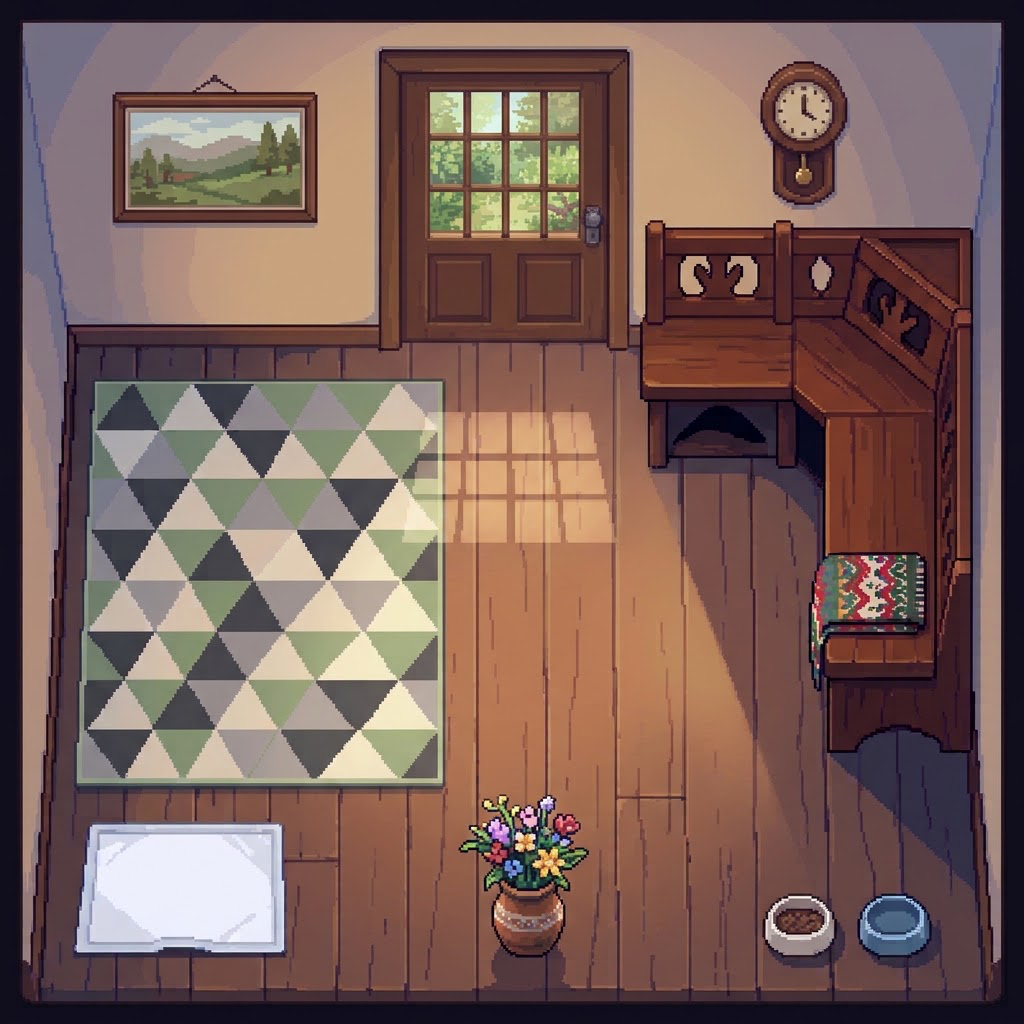
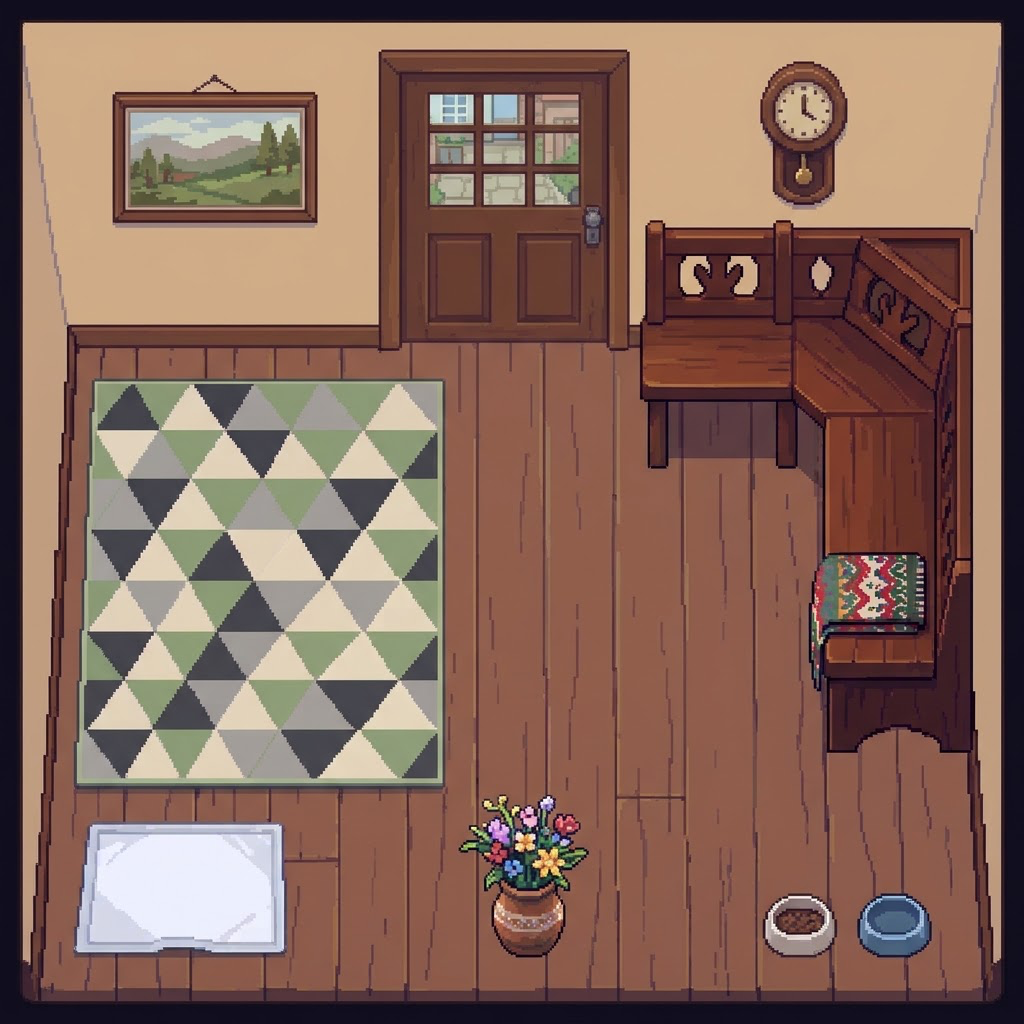
Backgrounds: spring yard, room without sunbeam; door view, props, shadows
tools/bg_prepare.py (preview stage, nothing in the pak):
- the 400 x 400 grid recovered from the 1024 px images
- the door's 9 glass panes transparent, the season's yard seen through them
- pad, vase and bowls cut out as props; the floor under them refilled per
  board (row copying repeated the board ends as a grid, so median colour)
- previews with runtime-style shadows (Lili and props), the afternoon
  sunbeam through the door panes, and the night tone

diff --git a/tools/bg_prepare.py b/tools/bg_prepare.py
@@ -1,0 +1,232 @@
+#!/usr/bin/env python3
+"""Pixel Lili: the owner's generated backgrounds -> game-ready layers (2026-10-23, preview stage).
+
+    py -3.12 tools/bg_prepare.py
+
+assets/backgrounds/src/*.png (1024 px; the real pixel grid is 400 x 400, measured: a 2.56 px period) ->
+  assets/backgrounds/room.png             the room on its 400 grid, the door's 9 glass panes transparent
+  assets/backgrounds/door_view_<s>.png    what the panes show: the same season's yard, small and soft, as glass
+  assets/backgrounds/props/<id>.png       the pad, the vase and the two bowls cut out (their states change, and
+                                          they sort with Lili); the floor under them is filled with its own planks
+  assets/backgrounds/yard_<s>.png         the yards on their 400 grid
+  docs/img/bg/room_<s>_480.png            preview: 480 x 480 with the display corners and Lili
+Nothing here goes into the pak; tools/pack_assets.py is untouched until the owner approves.
+"""
+import os
+import numpy as np
+from PIL import Image, ImageDraw, ImageFilter
+
+ROOT = os.path.dirname(os.path.dirname(os.path.abspath(__file__)))
+SRC = os.path.join(ROOT, "assets", "backgrounds", "src")
+OUT = os.path.join(ROOT, "assets", "backgrounds")
+DOC = os.path.join(ROOT, "docs", "img", "bg")
+SEASONS = ("spring", "summer", "autumn", "winter")
+GRID, SHOW, CORNER = 400, 480, 72
+
+# the door's glass panes on the 400 grid (inclusive), found from the dark muntin rows and columns
+PANE_X = ((168, 184), (189, 204), (209, 225))
+PANE_Y = ((37, 48), (52, 63), (68, 79))
+WINDOW = (168, 37, 226, 80)                    # x0, y0, x1, y1 (exclusive): the whole glazed area
+# changeable things on the room floor: (x0, y0, x1, y1) exclusive, on the 400 grid
+PROPS = {"pad": (28, 319, 114, 375), "vase": (176, 307, 233, 376),
+         "bowl_food": (295, 346, 330, 377), "bowl_water": (332, 345, 367, 378)}
+FLOOR_Y = (140, 386)                           # the floor's rows (below the wall, above the front edge)
+# the vase's terracotta is the floor's colour (measured: 20-67 apart), so its body is traced by hand along
+# its dark outline (400 grid); the flowers above it are found by colour like the other props
+HAND_MASKS = {"vase": [(195, 346), (217, 346), (219, 350), (221, 355), (221, 365), (218, 369), (214, 373),
+                       (200, 373), (196, 369), (192, 365), (191, 355), (193, 350)]}
+VIEW = (40, 0, 360, 236)                       # the part of a yard seen through the door: fence, trees, grass
+
+def load_grid(name):
+    """the centre of every 2.56 px source cell = the original pixel"""
+    return Image.open(os.path.join(SRC, name + ".png")).convert("RGB").resize((GRID, GRID), Image.NEAREST)
+
+def is_wood(px):
+    r, g, b = px[..., 0].astype(int), px[..., 1].astype(int), px[..., 2].astype(int)
+    return (r > g) & (g >= b - 4) & (r - b > 20) & (r < 190)
+
+def wood_runs(col, y_from, y_to):
+    """clean wood runs (start, end exclusive) in one column between two rows"""
+    w = is_wood(col[y_from:y_to])
+    runs, start = [], None
+    for i, ok in enumerate(w):
+        if ok and start is None: start = i
+        if not ok and start is not None: runs.append((y_from + start, y_from + i)); start = None
+    if start is not None: runs.append((y_from + start, y_to))
+    return runs
+
+def fill_floor(img, box):
+    """the floor under an object: the boards run vertically, so every column gets the median colour of its
+    own clean wood just above and just below the box, blended top to bottom (the floor darkens towards the
+    front). Copying texture rows was tried first: the board ends repeated as a grid of horizontal lines."""
+    a = np.asarray(img).astype(float).copy()
+    x0, y0, x1, y1 = box
+    for x in range(x0, x1):
+        col = a[:, x]
+        above = [col[y] for y in range(max(FLOOR_Y[0], y0 - 30), y0) if is_wood(col[y:y + 1].astype(np.uint8))[0]]
+        below = [col[y] for y in range(y1, min(FLOOR_Y[1], y1 + 12)) if is_wood(col[y:y + 1].astype(np.uint8))[0]]
+        if not above and not below:
+            continue
+        ca = np.median(above, 0) if above else np.median(below, 0)
+        cb = np.median(below, 0) if below else ca
+        for y in range(y0, y1):
+            t = (y - y0) / max(1, y1 - y0 - 1)
+            a[y, x] = ca * (1 - t) + cb * t
+    return Image.fromarray(a.round().clip(0, 255).astype(np.uint8))
+
+def largest_blob(m):
+    """the biggest 4-connected True region (the object; thin plank seams that the fill smoothed away are
+    separate specks), with its inner holes filled (parts of the object coloured like the floor)"""
+    h, w = m.shape
+    seen = np.zeros_like(m); best = []
+    for sy in range(h):
+        for sx in range(w):
+            if not m[sy, sx] or seen[sy, sx]: continue
+            stack, blob = [(sy, sx)], []
+            seen[sy, sx] = True
+            while stack:
+                y, x = stack.pop(); blob.append((y, x))
+                for ny, nx in ((y + 1, x), (y - 1, x), (y, x + 1), (y, x - 1)):
+                    if 0 <= ny < h and 0 <= nx < w and m[ny, nx] and not seen[ny, nx]:
+                        seen[ny, nx] = True; stack.append((ny, nx))
+            if len(blob) > len(best): best = blob
+    out = np.zeros_like(m)
+    for y, x in best: out[y, x] = True
+    # .copy(): an image made by fromarray shares the array's memory and the flood fill left it unchanged
+    outside = Image.fromarray(np.pad(~out, 1, constant_values=True).astype(np.uint8) * 255).copy()
+    ImageDraw.floodfill(outside, (0, 0), 128)
+    holes = np.asarray(outside)[1:-1, 1:-1] == 255
+    return out | holes
+
+def cut_props(orig, filled):
+    """an object pixel = one that is not wood-coloured, or one far from its board's own colour (the vase's
+    terracotta is wood-like but much brighter); the far-from-floor part is opened first so the grain's
+    highlights fall away; then the largest region, a 3x3 closing for the notches, and the holes filled.
+    A plain difference against the filled floor was tried first: the median fill smooths the grain, so half
+    the floor counted as 'changed'. The baked contact shadow stays on the floor; shadows come at runtime."""
+    o = np.asarray(orig); f = np.asarray(filled).astype(int)
+    def op(m, a, b):
+        return np.asarray(Image.fromarray(m.astype(np.uint8) * 255).filter(a(3)).filter(b(3))) > 0
+    out = {}
+    for pid, (x0, y0, x1, y1) in PROPS.items():
+        far = np.abs(o[y0:y1, x0:x1].astype(int) - f[y0:y1, x0:x1]).sum(2) > 120
+        m = largest_blob(~is_wood(o[y0:y1, x0:x1]) | op(far, ImageFilter.MinFilter, ImageFilter.MaxFilter))
+        if pid in HAND_MASKS:
+            hm = Image.new("L", (x1 - x0, y1 - y0), 0)
+            ImageDraw.Draw(hm).polygon([(x - x0, y - y0) for x, y in HAND_MASKS[pid]], fill=255, outline=255)
+            m = m | (np.asarray(hm) > 0)
+        m = largest_blob(op(m, ImageFilter.MaxFilter, ImageFilter.MinFilter))
+        rgba = np.dstack([o[y0:y1, x0:x1], (m * 255).astype(np.uint8)])
+        out[pid] = (Image.fromarray(rgba, "RGBA"), (x0, y0))
+    return out
+
+def door_view(yard):
+    """the yard through the glass: the far part of the garden, shrunk to the window, a little lighter and
+    cooler like glass; the muntins stay from the room picture"""
+    x0, y0, x1, y1 = WINDOW
+    v = yard.crop(VIEW).resize((x1 - x0, y1 - y0), Image.BOX)
+    a = np.asarray(v).astype(float)
+    a = a * 0.86 + np.array([214, 228, 240]) * 0.14
+    return Image.fromarray(a.clip(0, 255).astype(np.uint8))
+
+def pane_mask():
+    m = np.zeros((GRID, GRID), bool)
+    for xa, xb in PANE_X:
+        for ya, yb in PANE_Y:
+            m[ya:yb + 1, xa:xb + 1] = True
+    return m
+
+def show(img400, sprites=(), night=False):
+    """the 480 display: 1.2x nearest (every 5th pixel doubled), Lili at native size with her shadow under
+    her, rounded corners; night = the evening table: darker and colder (the game swaps the palette LUT)"""
+    s = img400.convert("RGB").resize((SHOW, SHOW), Image.NEAREST)
+    s = shade(s, [(x + 3, y - 1, rx, ry) for pose, x, y, rx, ry in sprites])
+    for pose, x, y, rx, ry in sprites:
+        sp = Image.open(os.path.join(ROOT, "assets", "sprites", "lili_src", pose + ".png")).convert("RGBA")
+        s.paste(sp, (x - 48, y - 90), sp)
+    if night:
+        a = np.asarray(s).astype(float) * 0.45 + np.array([8, 12, 38])
+        s = Image.fromarray(a.clip(0, 255).astype(np.uint8))
+    m = Image.new("L", s.size, 0); ImageDraw.Draw(m).rounded_rectangle((0, 0, SHOW - 1, SHOW - 1), CORNER, fill=255)
+    out = Image.new("RGB", s.size, (0, 0, 0)); out.paste(s, (0, 0), m)
+    return out
+
+def main():
+    os.makedirs(os.path.join(OUT, "props"), exist_ok=True); os.makedirs(DOC, exist_ok=True)
+    yards = {s: load_grid("yard_" + s) for s in SEASONS}
+    for s, y in yards.items():
+        y.save(os.path.join(OUT, f"yard_{s}.png"))
+    room = load_grid("room")
+    filled = room
+    for box in PROPS.values():
+        filled = fill_floor(filled, box)
+    for pid, (sp, pos) in cut_props(room, filled).items():
+        sp.save(os.path.join(OUT, "props", f"{pid}.png"))
+        print(f"prop {pid}: {sp.size[0]}x{sp.size[1]} at {pos}")
+    panes = pane_mask()
+    rgba = np.dstack([np.asarray(filled), np.where(panes, 0, 255).astype(np.uint8)])
+    Image.fromarray(rgba, "RGBA").save(os.path.join(OUT, "room.png"))
+    x0, y0, x1, y1 = WINDOW
+    props = cut_props(room, filled)
+    lili_room = [("sit_S", 240, 285, 22, 6), ("sleep", 92, 262, 34, 8)]          # 480 px: pose, pivot, shadow
+    for s in SEASONS:
+        dv = door_view(yards[s]); dv.save(os.path.join(OUT, f"door_view_{s}.png"))
+        for mode in ("day", "night") if s == "spring" else ("day",):
+            comp = Image.new("RGB", (GRID, GRID)); comp.paste(dv, (x0, y0))
+            comp.paste(Image.fromarray(rgba, "RGBA"), (0, 0), Image.fromarray(rgba, "RGBA"))
+            if mode == "day":
+                comp = sunbeam(comp)
+            for pid in ("bowl_food", "bowl_water", "vase"):                      # contact shadows, light from top left
+                sp, (px, py) = props[pid]
+                comp = shade(comp, [prop_shadow(pid, sp, px, py)])
+            for pid in ("pad", "vase", "bowl_food", "bowl_water"):
+                sp, pos = props[pid]; comp.paste(sp, pos, sp)
+            name = f"room_{s}_480.png" if mode == "day" else f"room_{s}_night_480.png"
+            show(comp, lili_room, night=(mode == "night")).save(os.path.join(DOC, name))
+            if mode == "day":
+                comp.crop((150, 15, 250, 140)).resize((600, 750), Image.NEAREST).save(os.path.join(DOC, f"door_{s}_zoom.png"))
+        show(yards[s], [("walk_SE", 240, 300, 26, 6)]).save(os.path.join(DOC, f"yard_{s}_480.png"))
+    show(Image.fromarray(np.asarray(filled))).save(os.path.join(DOC, "room_empty_floor_480.png"))
+    print("->", os.path.relpath(OUT, ROOT), "and", os.path.relpath(DOC, ROOT))
+
+# --- the runtime light and shadow, simulated for the preview (the game does the same with remap tables) ---
+
+def shade(img, ellipses, inner=0.62, outer=0.80):
+    """a hard-edged two-step pixel-art shadow: the outer ring a little darker, the core darker, both a bit
+    blue (the cold shadows of the art direction); ellipses = (cx, cy, rx, ry) in the image's pixels"""
+    a = np.asarray(img).astype(float)
+    yy, xx = np.mgrid[0:a.shape[0], 0:a.shape[1]]
+    for cx, cy, rx, ry in ellipses:
+        d = ((xx - cx) / rx) ** 2 + ((yy - cy) / ry) ** 2
+        for lim, f in ((1.0, outer), (0.55, inner / outer)):
+            m = d <= lim
+            a[m] = a[m] * f + np.array([0, 4, 14]) * (1 - f)
+    return Image.fromarray(a.clip(0, 255).astype(np.uint8))
+
+def prop_shadow(pid, sp, px, py):
+    """under the object's base, nudged right and down (the light comes from the top left)"""
+    al = np.asarray(sp)[..., 3] > 0
+    ys, xs = np.nonzero(al)
+    base = ys.max()
+    cols = xs[ys >= base - 3]
+    cx = px + (cols.min() + cols.max()) / 2 + 2
+    rx = (cols.max() - cols.min()) / 2 + 3
+    return (cx, py + base - 1, rx, 4)
+
+def sunbeam(img):
+    """afternoon: the door's 3 x 3 panes land on the floor as a warm, widening patch (muntin gaps between)"""
+    a = np.asarray(img).astype(float)
+    top, bot = (150, 172, 228), (252, 150, 266)                 # y, x_left, x_right of the patch's edges
+    for r in range(3):
+        for c in range(3):
+            ya = top[0] + (bot[0] - top[0]) * r / 3 + 2; yb = top[0] + (bot[0] - top[0]) * (r + 1) / 3 - 2
+            for y in range(int(ya), int(yb)):
+                t = (y - top[0]) / (bot[0] - top[0])
+                xl = top[1] + (bot[1] - top[1]) * t; xr = top[2] + (bot[2] - top[2]) * t
+                w = (xr - xl) / 3
+                xa, xb = int(xl + w * c + 2), int(xl + w * (c + 1) - 2)
+                a[y, xa:xb] = a[y, xa:xb] * 1.16 + np.array([30, 20, 2])
+    return Image.fromarray(a.clip(0, 255).astype(np.uint8))
+
+if __name__ == "__main__":
+    main()

diff --git a/docs/decisions.md b/docs/decisions.md
@@ -39,3 +39,4 @@
 | 2D vonal (Blender helyett) | **A gazdi (2026-10-23):** a Blender-modell nem lett elég hű, a sprite-ok 2D-ben készülnek a jóváhagyott Lili-képekből (`docs/art/Lilik`: 10 db 128 px-es pixellab PNG + 2 Gemini montázs). A Blender-fájlok és -eszközök maradnak, de nem a fő vonal. Méret: **96 px cella, pivot (48, 90)** (a magas, nagyfülű pózok miatt a pivot a talp közelében), a kutya oldalról ~73 px, ülve ~81 px. Élesítés: `tools/sprite_clean.py` (a forrás valódi pixelmérete mérve: PNG ~1,17 px, montázs 4,27 px; módusz-mintavétel a kimeneti rácsra, kemény alfa, 1 px kontúr, 15 px alatti foltok törölve, a montázs bézs háttere és sült árnyéka elárasztással levágva). Paletta: a mester-paletta rámpái fakóvá tették a bundát, ezért **Lili saját 40 színe** (k-means Oklabban a pózokból) a 256-os paletta szabad 144-183 helyein (`assets/palettes/lili_sprites.json`), a kontúr a forrás szélének színe (#1d0f1d). Vektorizálás elvetve (a 96 px-es kijelzőre visszaraszterezve elmosódott vagy szabálytalan élt adna). Hiányzó irányok: NW és E (új forráskép kell). A montázs-pózok forrása kisebb felbontású, ezért kevésbé részletesek. Animáció: 2D bábanimáció a fő vonal, mellette egy kép-videó modell próba (a gazdi döntése), külön tervvel. |
 | animáció / videómodell elvetve | **2026-10-23:** a képből-videó modellek kipróbálva a gazdi gépén: Wan2.1-VACE-1.3B (33-49 kocka 2-3 perc, 5 GB VRAM; a lábak elkenődnek vagy egy pózban ragadnak, egy próbánál Lili szétesett) és Wan2.2-TI2V-5B (8 perc egy klip, 25 GB RAM; a járásnál kisétál a képből és kifehéredik, a farokcsóválásnál alig mozdul). A gazdi szerint mindkettő, és a 2D bábanimáció (légzés, pislogás) is kevés. **A videós út lezárva, a modellek (39 GB) és a próbák törölve.** Következő próba: kulcskockák képszerkesztéssel, FLUX.2 klein 4B (Apache-2.0), `tools/keyframes.py`, minden kocka a tisztított sprite szerkesztése, nem videó. A WSL memóriakorlátja 16 -> 26 GB, swap 4 -> 16 GB (`%UserProfile%\.wslconfig`, a régi `.wslconfig.bak-2026-10-23`), a gazdi engedélyével. A SpriteKiln (1 napos, csak Macen tesztelt, Wan 2.2 14B-re épül) és a pixel-sprite-lab (nem létezik) elvetve. |
 | animáció / PixelLab | **A gazdi döntése (2026-10-23):** Lili animációi a **PixelLab** webes szerkesztőjében (pixellab.ai/editor, Pixelorama) készülnek, az "Animate with Text (New)" v3 eszközzel, a jóváhagyott 96 px-es forráspózból (első kocka = a forrás). Az első próba (walk_SE, 8 kocka, 2 generálás) a FLUX.2 klein kulcskockáknál jóval jobb: a stílus, a színek és a kontúr megmarad, a lábak valódi ciklust adnak. A lógó fül járás közben felemelkedik, a farok kiegyenesedik; a gazdi szerint ez **rendben van** ("menet közben felállhat a füle"), álló és ülő pózban a fül lógó marad. **Kivétel a CLAUDE.md 7. szabálya alól (fizetős szolgáltatás):** az assetgyártáshoz a gazdi a PixelLab Tier 1 (12 USD/hó, 2000 generálás) előfizetését választja, addig a 40 ingyenes generálásból megy; a játék és a firmware nem függ tőle (a kimenet PNG a repóban). Munkamenet: Claude in Chrome, a fájlválasztó és a mentési ablak elkerülve (a Pixelorama fájl-inputja elfogva, az export egy helyi fogadón át megy), a sheetek a repóban: `assets/pixellab/<anim>_<irány>_sheet.png` (commitolva, mert kreditbe kerültek és nem generálhatók újra ingyen), előnézet: `tools/pixellab_import.py`. Az ingyenes csomag egyszerre 1 generálást enged. **Semmi nem kerül a pakba a gazdi jóváhagyása előtt.** |
+| hátterek (előkészítve, bekötésre vár) | **A gazdi generálta (2026-10-23):** szoba (napcsík nélkül) és udvar 4 évszakra (`assets/backgrounds/src/`, 1024 px, a valódi rács **400 x 400**, mérve: 2,56 px-es periódus). Az udvar alján nem kell házfal (a szobából látszik). **Az ajtó üvegein át az udvar látszik** (a gazdi ötlete): a 9 üvegtábla átlátszó a szobaképen, mögötte az aktuális évszak udvarának távoli része, kicsinyítve, üvegszerűen világosítva (`door_view_<évszak>.png`). A tálak, a pelenka és a váza külön elemek (állapotuk változik, és Lilivel együtt rendeződnek Y szerint); a padló alattuk deszkánként a saját színével kitöltve (`tools/bg_prepare.py`). **Árnyékok (a gazdi: "rohadt fontos"):** futás közben számolva, nem beleégetve: Lili és a tárgyak alatt kétlépcsős, kissé kékes árnyék (a fény balról fentről), délután a napfolt az ajtóüveg osztásával, éjjel a sötétebb, hidegebb LUT; az udvar fáinak árnyéka a képen marad (nem változik). Megjelenítés: 400 -> 480 legközelebbi szomszéddal (minden 5. pixel kétszer), a panelen ellenőrizendő. Méret 200 színnel: szoba 143 KB, udvar 171-181 KB (RLE). |
